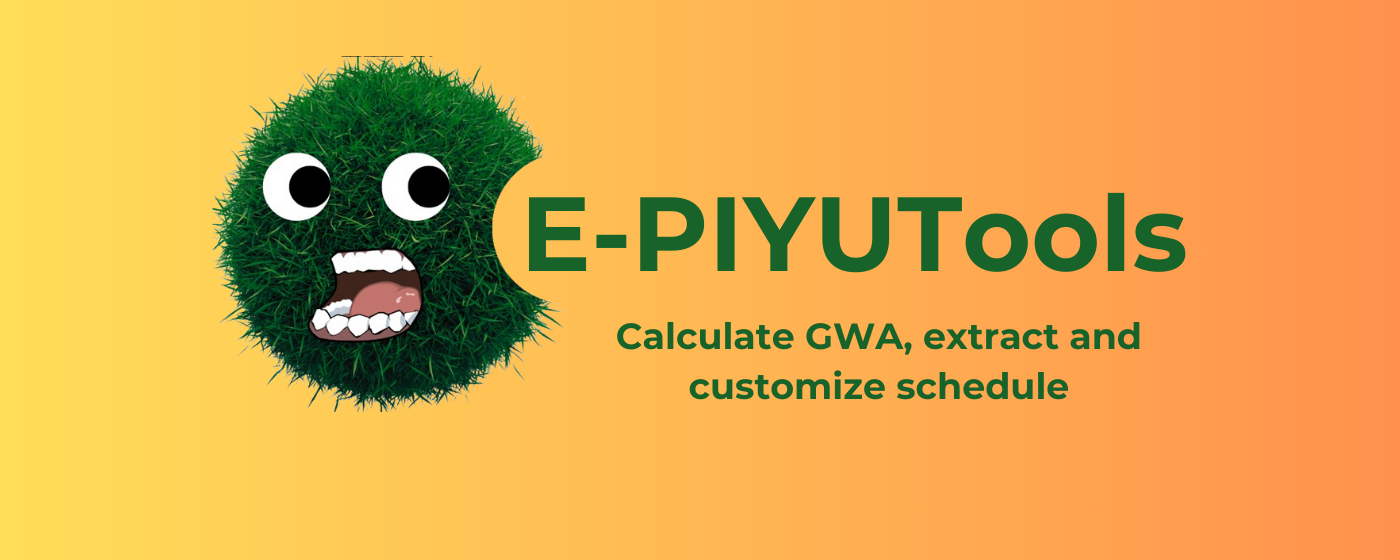
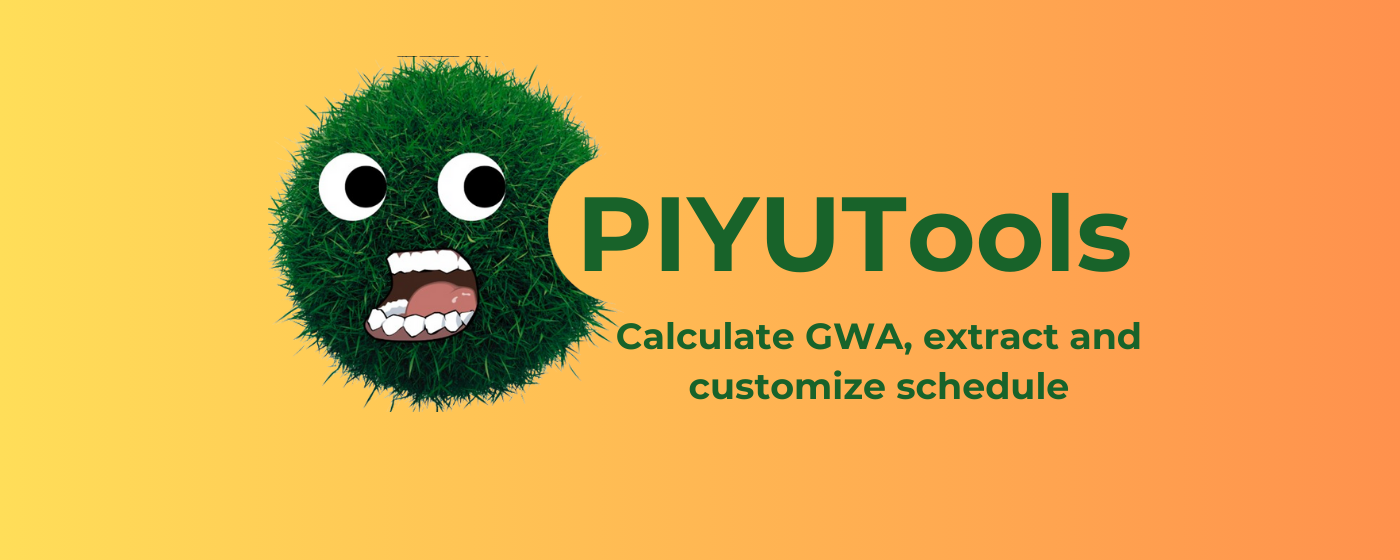
Updated for new portal

Changed region(s): [[0.1536, 0.0911, 0.86, 0.7286]]

diff --git a/content.js b/content.js
@@ -55,7 +55,7 @@ function extractScheduleForSchedinator() {
             return { error: "Error: No schedule data found." };
         }
 
-        // First, get the data in CSV format similar to what the site expects
+        // Get the data in CSV format similar to what the site expects
         const entries = [];
         const uniqueDays = new Set();
         let earliestTime = null;
@@ -193,34 +193,115 @@ function calculateGWA() {
         let totalUnitsFinal = 0;
         let totalWeightedFinal = 0;
 
+        // Special grade messages
+        const specialGrades = {
+            '9.5': 'Pending Balance',
+            '9.0': 'Incomplete',
+            '8.0': 'Credited',
+            '7.0': 'Dropped',
+            '0.0': 'Excessive Absences'
+        };
+
+        // Add CSS for custom tooltip if not already added
+        if (!document.getElementById('tooltip-styles')) {
+            const styleSheet = document.createElement('style');
+            styleSheet.id = 'tooltip-styles';
+            styleSheet.textContent = `
+                .special-grade {
+                    position: relative;
+                    color: #ff0000 !important;
+                    font-weight: bold;
+                    background-color: #fff0f0;
+                    border-radius: 4px;
+                    padding: 2px 4px;
+                    cursor: pointer;
+                }
+                .special-grade:hover::after {
+                    content: attr(data-tooltip);
+                    position: absolute;
+                    left: 50%;
+                    transform: translateX(-50%);
+                    bottom: 100%;
+                    margin-bottom: 5px;
+                    background-color: #333;
+                    color: white;
+                    padding: 8px 12px;
+                    border-radius: 6px;
+                    font-size: 14px;
+                    white-space: nowrap;
+                    z-index: 1000;
+                    box-shadow: 0 2px 4px rgba(0,0,0,0.2);
+                }
+                .special-grade:hover::before {
+                    content: '';
+                    position: absolute;
+                    left: 50%;
+                    transform: translateX(-50%);
+                    bottom: 100%;
+                    border: 6px solid transparent;
+                    border-top-color: #333;
+                    margin-bottom: -6px;
+                    z-index: 1000;
+                }
+            `;
+            document.head.appendChild(styleSheet);
+        }
+
+        // Process each row except the last one if it's already a GWA row
         rows.forEach(row => {
+            // Skip if GWA row
+            if (row.classList.contains('gwa-row')) {
+                return;
+            }
+
             if (row.cells && row.cells.length >= 6) {
                 const units = parseFloat(row.cells[3].innerText);
-                const midtermGrade = parseFloat(row.cells[4].innerText);
-                const finalGrade = parseFloat(row.cells[5].innerText);
+                const midtermCell = row.cells[4];
+                const finalCell = row.cells[5];
+                const midtermGradeText = midtermCell.innerText.trim();
+                const finalGradeText = finalCell.innerText.trim();
 
-                if (!isNaN(units) && !isNaN(midtermGrade)) {
-                    totalUnitsMidterm += units;
-                    totalWeightedMidterm += units * midtermGrade;
+                // Midterm Grade
+                if (specialGrades.hasOwnProperty(midtermGradeText)) {
+                    // Style 
+                    midtermCell.className = 'special-grade';
+                    midtermCell.setAttribute('data-tooltip', specialGrades[midtermGradeText]);
+                    // Don't include in GWA calculation
+                } else {
+                    const midtermGrade = parseFloat(midtermGradeText);
+                    if (!isNaN(units) && !isNaN(midtermGrade) && midtermGrade >= 0 && midtermGrade <= 4.0) {
+                        totalUnitsMidterm += units;
+                        totalWeightedMidterm += units * midtermGrade;
+                    }
                 }
 
-                if (!isNaN(units) && !isNaN(finalGrade)) {
-                    totalUnitsFinal += units;
-                    totalWeightedFinal += units * finalGrade;
+                // Final Grade
+                if (specialGrades.hasOwnProperty(finalGradeText)) {
+                    // Style 
+                    finalCell.className = 'special-grade';
+                    finalCell.setAttribute('data-tooltip', specialGrades[finalGradeText]);
+                    // Don't include in GWA calculation
+                } else {
+                    const finalGrade = parseFloat(finalGradeText);
+                    if (!isNaN(units) && !isNaN(finalGrade) && finalGrade >= 0 && finalGrade <= 4.0) {
+                        totalUnitsFinal += units;
+                        totalWeightedFinal += units * finalGrade;
+                    }
                 }
             }
         });
 
+        // Calculate GWA
         const midtermGWA = (totalWeightedMidterm / totalUnitsMidterm).toFixed(2);
         const finalGWA = (totalWeightedFinal / totalUnitsFinal).toFixed(2);
 
-        // Remove existing GWA row (well if it exists)
+        // Remove existing GWA row if it exists
         const existingGWARow = table.querySelector('.gwa-row');
         if (existingGWARow) {
             existingGWARow.remove();
         }
 
-        // Create and insert GWA row
+        // Create and insert GWA row at the end of le table
         const gwaRow = document.createElement('tr');
         gwaRow.className = 'gwa-row';
         gwaRow.style.backgroundColor = '#f3f4f6';
@@ -233,10 +314,12 @@ function calculateGWA() {
         `;
 
         const tbody = table.querySelector('tbody');
-        const lastContentRow = tbody.lastElementChild;
-        tbody.insertBefore(gwaRow, lastContentRow);
+        tbody.appendChild(gwaRow);
 
-        return { midtermGWA, finalGWA };
+        return { 
+            midtermGWA: midtermGWA.toString(), 
+            finalGWA: finalGWA.toString() 
+        };
     } catch (error) {
         console.error('Error calculating GWA:', error);
         return { error: 'Failed to calculate GWA' };

diff --git a/popup.html b/popup.html
@@ -3,7 +3,7 @@
 <head>
     <meta charset="UTF-8">
     <meta name="viewport" content="width=device-width, initial-scale=1.0">
-    <title>E-PIYUTools</title>
+    <title>PIYUTools</title>
     <style>
         :root {
             --primary: #078C03;
@@ -378,12 +378,12 @@
 <body class="light">
     <div class="container">
         <div class="header">
-            <img src="EPIYUTools_Logo.png" alt="FIT Tools Logo" class="logo" id="fitLogo" style="width: 60px; height: auto; margin-bottom: 8px;">
-            <h1 style="margin-top: 0; font-size: 1.5rem;">E-PIYUTools</h1>
+            <img src="icon_v2.png" alt="PIYUTools Logo" class="logo" id="piyutoolsLogo" style="width: 60px; height: auto; margin-bottom: 8px;">
+            <h1 style="margin-top: 0; font-size: 1.5rem;">PIYUTools</h1>
         </div>
         
         <div class="instructions-area" id="extractInstructions">
-            1. Go to <a href="https://students.feutech.edu.ph/accounts/saf" target="_blank">students.feutech.edu.ph/accounts/saf</a> (COR)<br>
+            1. Go to <a href="https://solar.feutech.edu.ph/student/saf" target="_blank">solar.feutech.edu.ph/student/saf</a> (COR)<br>
             2. Select Term and Year<br>
             3. Click "Extract Schedule"<br>
             4. The extracted schedule will be saved as a .csv<br>
@@ -391,7 +391,7 @@
         </div>
         
         <div class="instructions-area" id="schedInstructions">
-            1. Go to <a href="https://students.feutech.edu.ph/accounts/saf" target="_blank">students.feutech.edu.ph/accounts/saf</a> (COR)<br>
+            1. Go to <a href="https://solar.feutech.edu.ph/student/saf" target="_blank">solar.feutech.edu.ph/student/saf</a> (COR)<br>
             2. Select Term and Year<br>
             3. Click "Generate Schedule"<br>
             4. You will be redirected to <a href="https://sched.chikiran.com" target="_blank">sched.chikiran.com</a><br>
@@ -400,7 +400,7 @@
         </div>
         
         <div class="instructions-area" id="gwaInstructions">
-            1. Go to <a href="https://students.feutech.edu.ph/accounts/course_card" target="_blank">students.feutech.edu.ph/accounts/course_card</a><br>
+            1. Go to <a href="https://solar.feutech.edu.ph/student/grades" target="_blank">solar.feutech.edu.ph/student/grades</a><br>
             2. Select Term and Year<br>
             3. Click Calculate GWA<br>
             4. GWA will be displayed in this popup and on the page itself

diff --git a/README.md b/README.md
@@ -1,8 +1,8 @@
 <div align="center">
-  <img src="128.png" alt="E-PIYUTools" />
+  <img src="icon_v2.png" alt="PIYUTools" />
 </div>
 
-# E-PIYUTools
+# PIYUTools
 - **Extract Schedule**: Extract your schedule from the COR page and save it as CSV.
 - **Generate Schedule**: Automatically generate and customize your schedule on sched.chikiran.com.
 - **Calculate GWA**: Calculate your Midterm and Final General Weighted Average (GWA) from the course card.
@@ -11,7 +11,7 @@
 
 ### Chrome
 - Visit the [Chrome Web Store](https://chrome.google.com/webstore/).
-- Search for "E-PIYUTools".
+- Search for "PIYUTools".
 - Click on "Add to Chrome" to install the extension.
 
 ### Manual Installation
